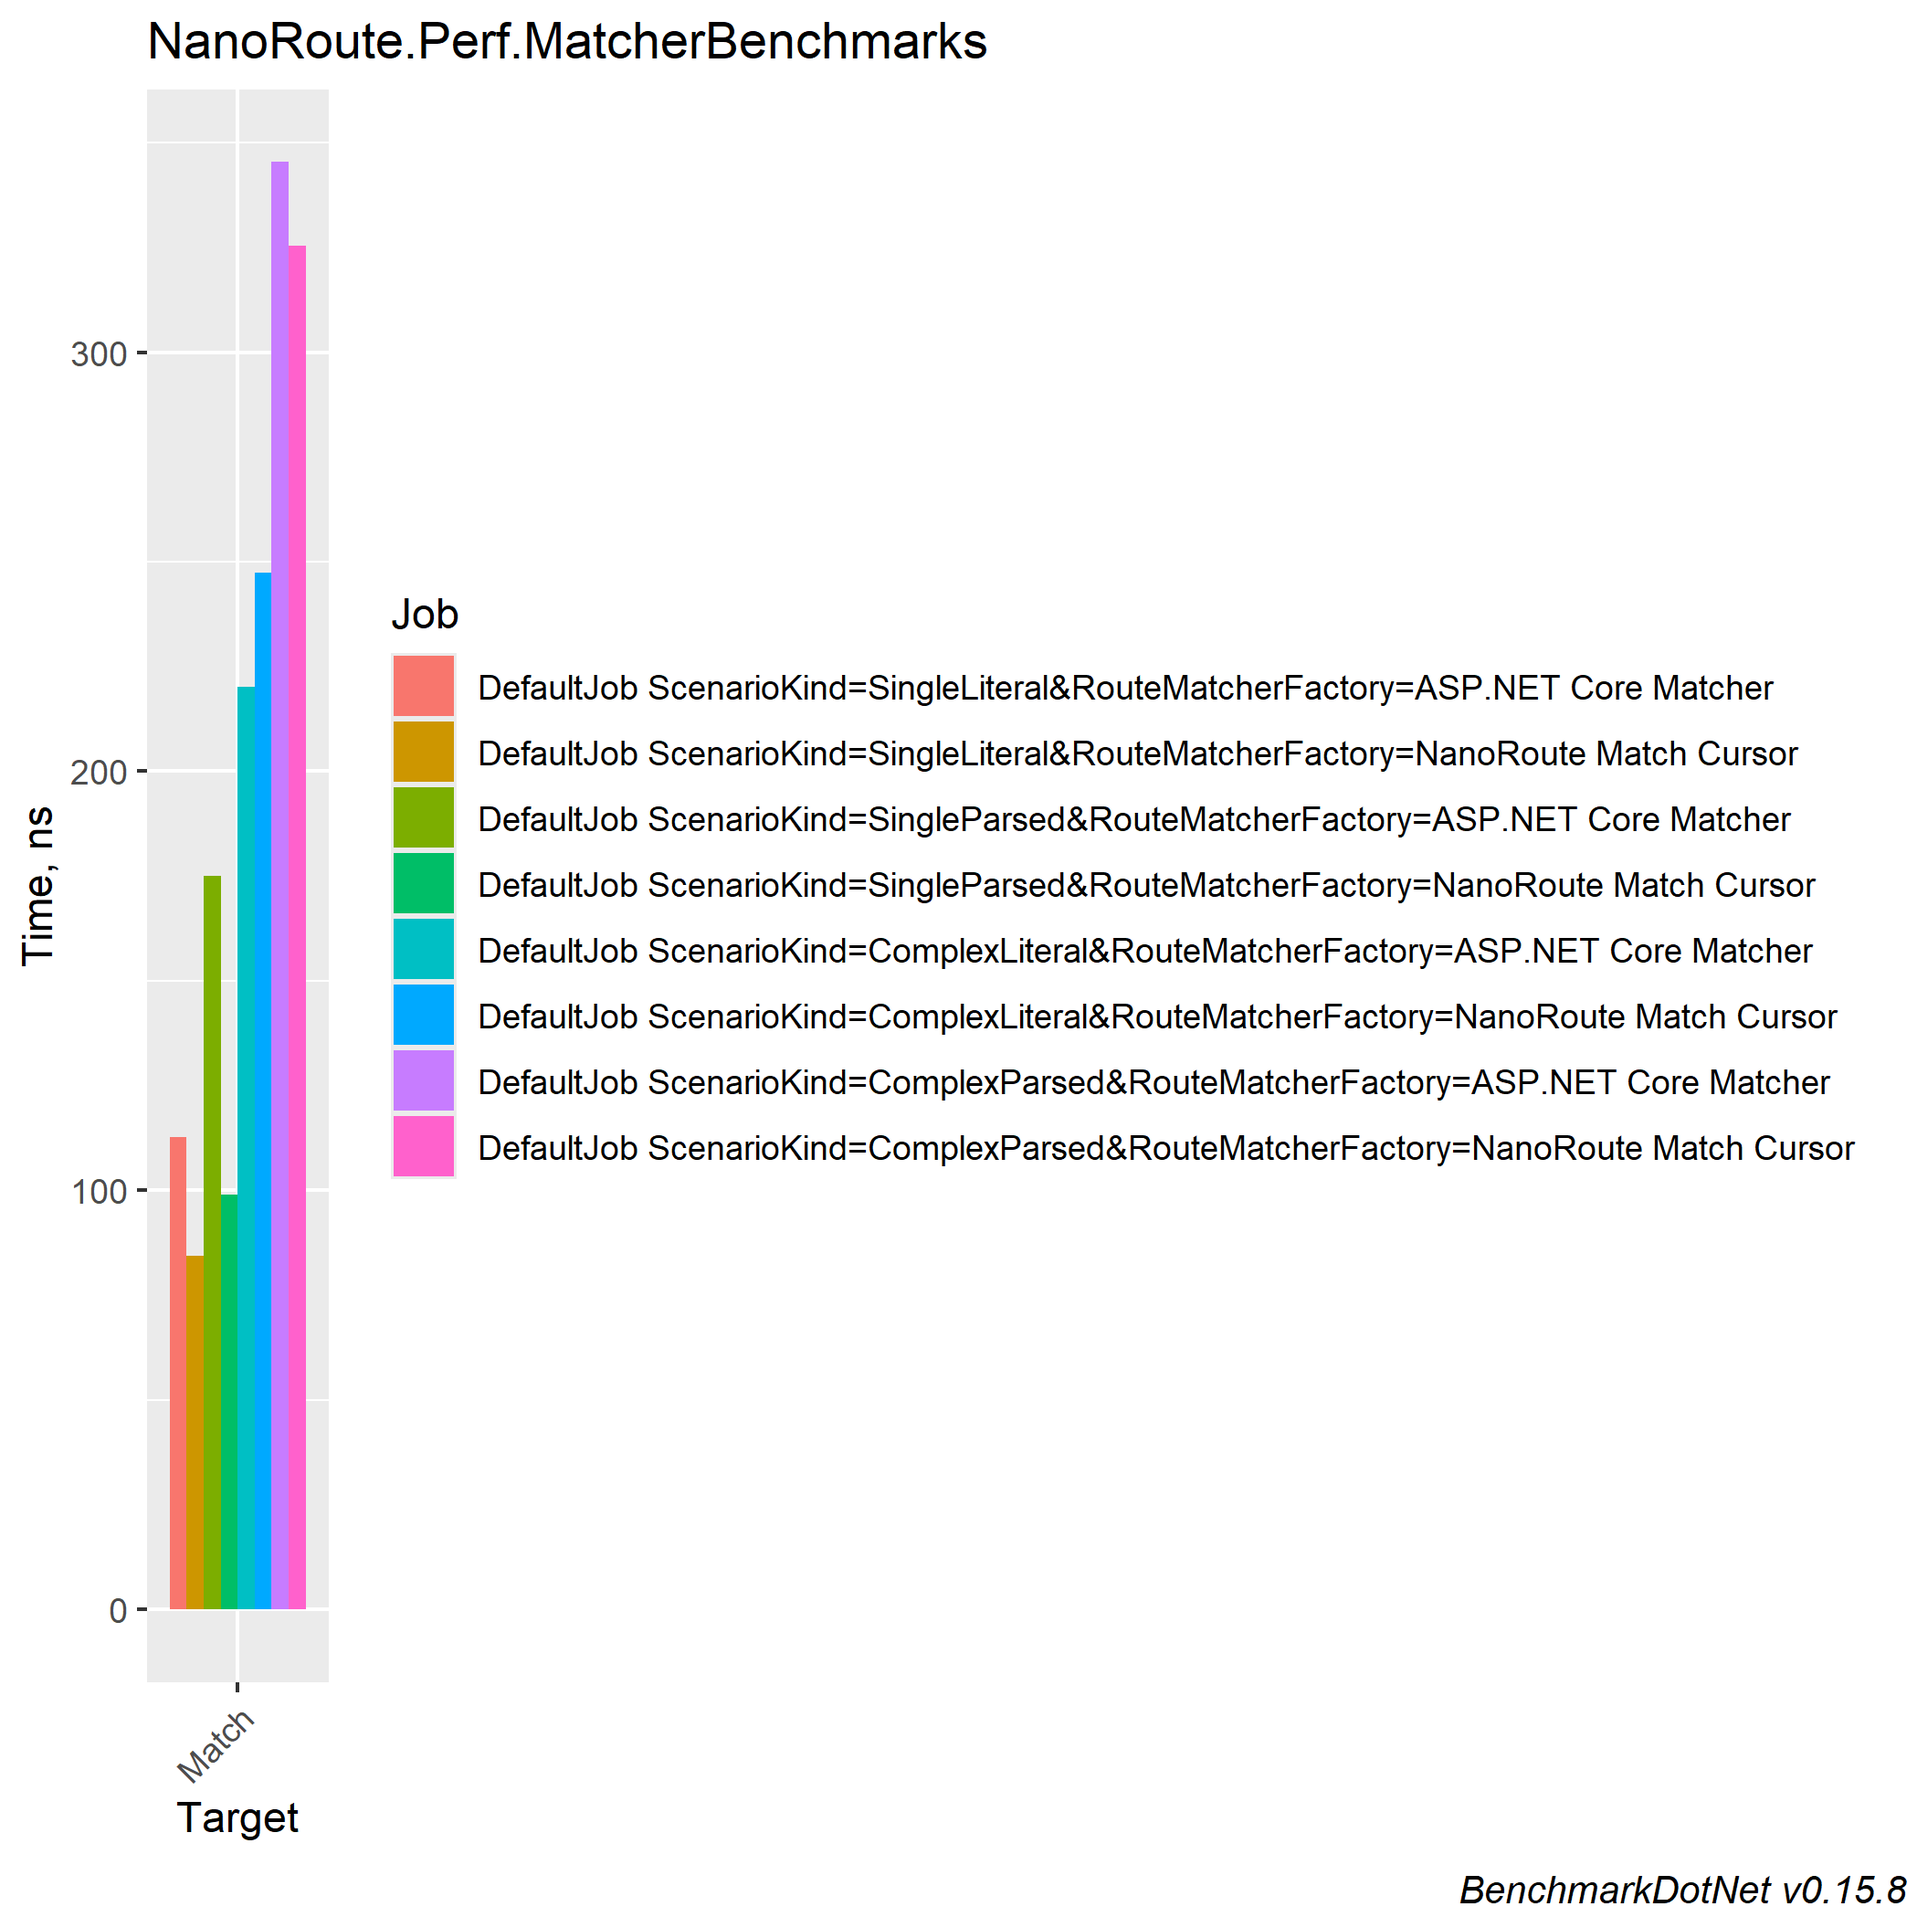
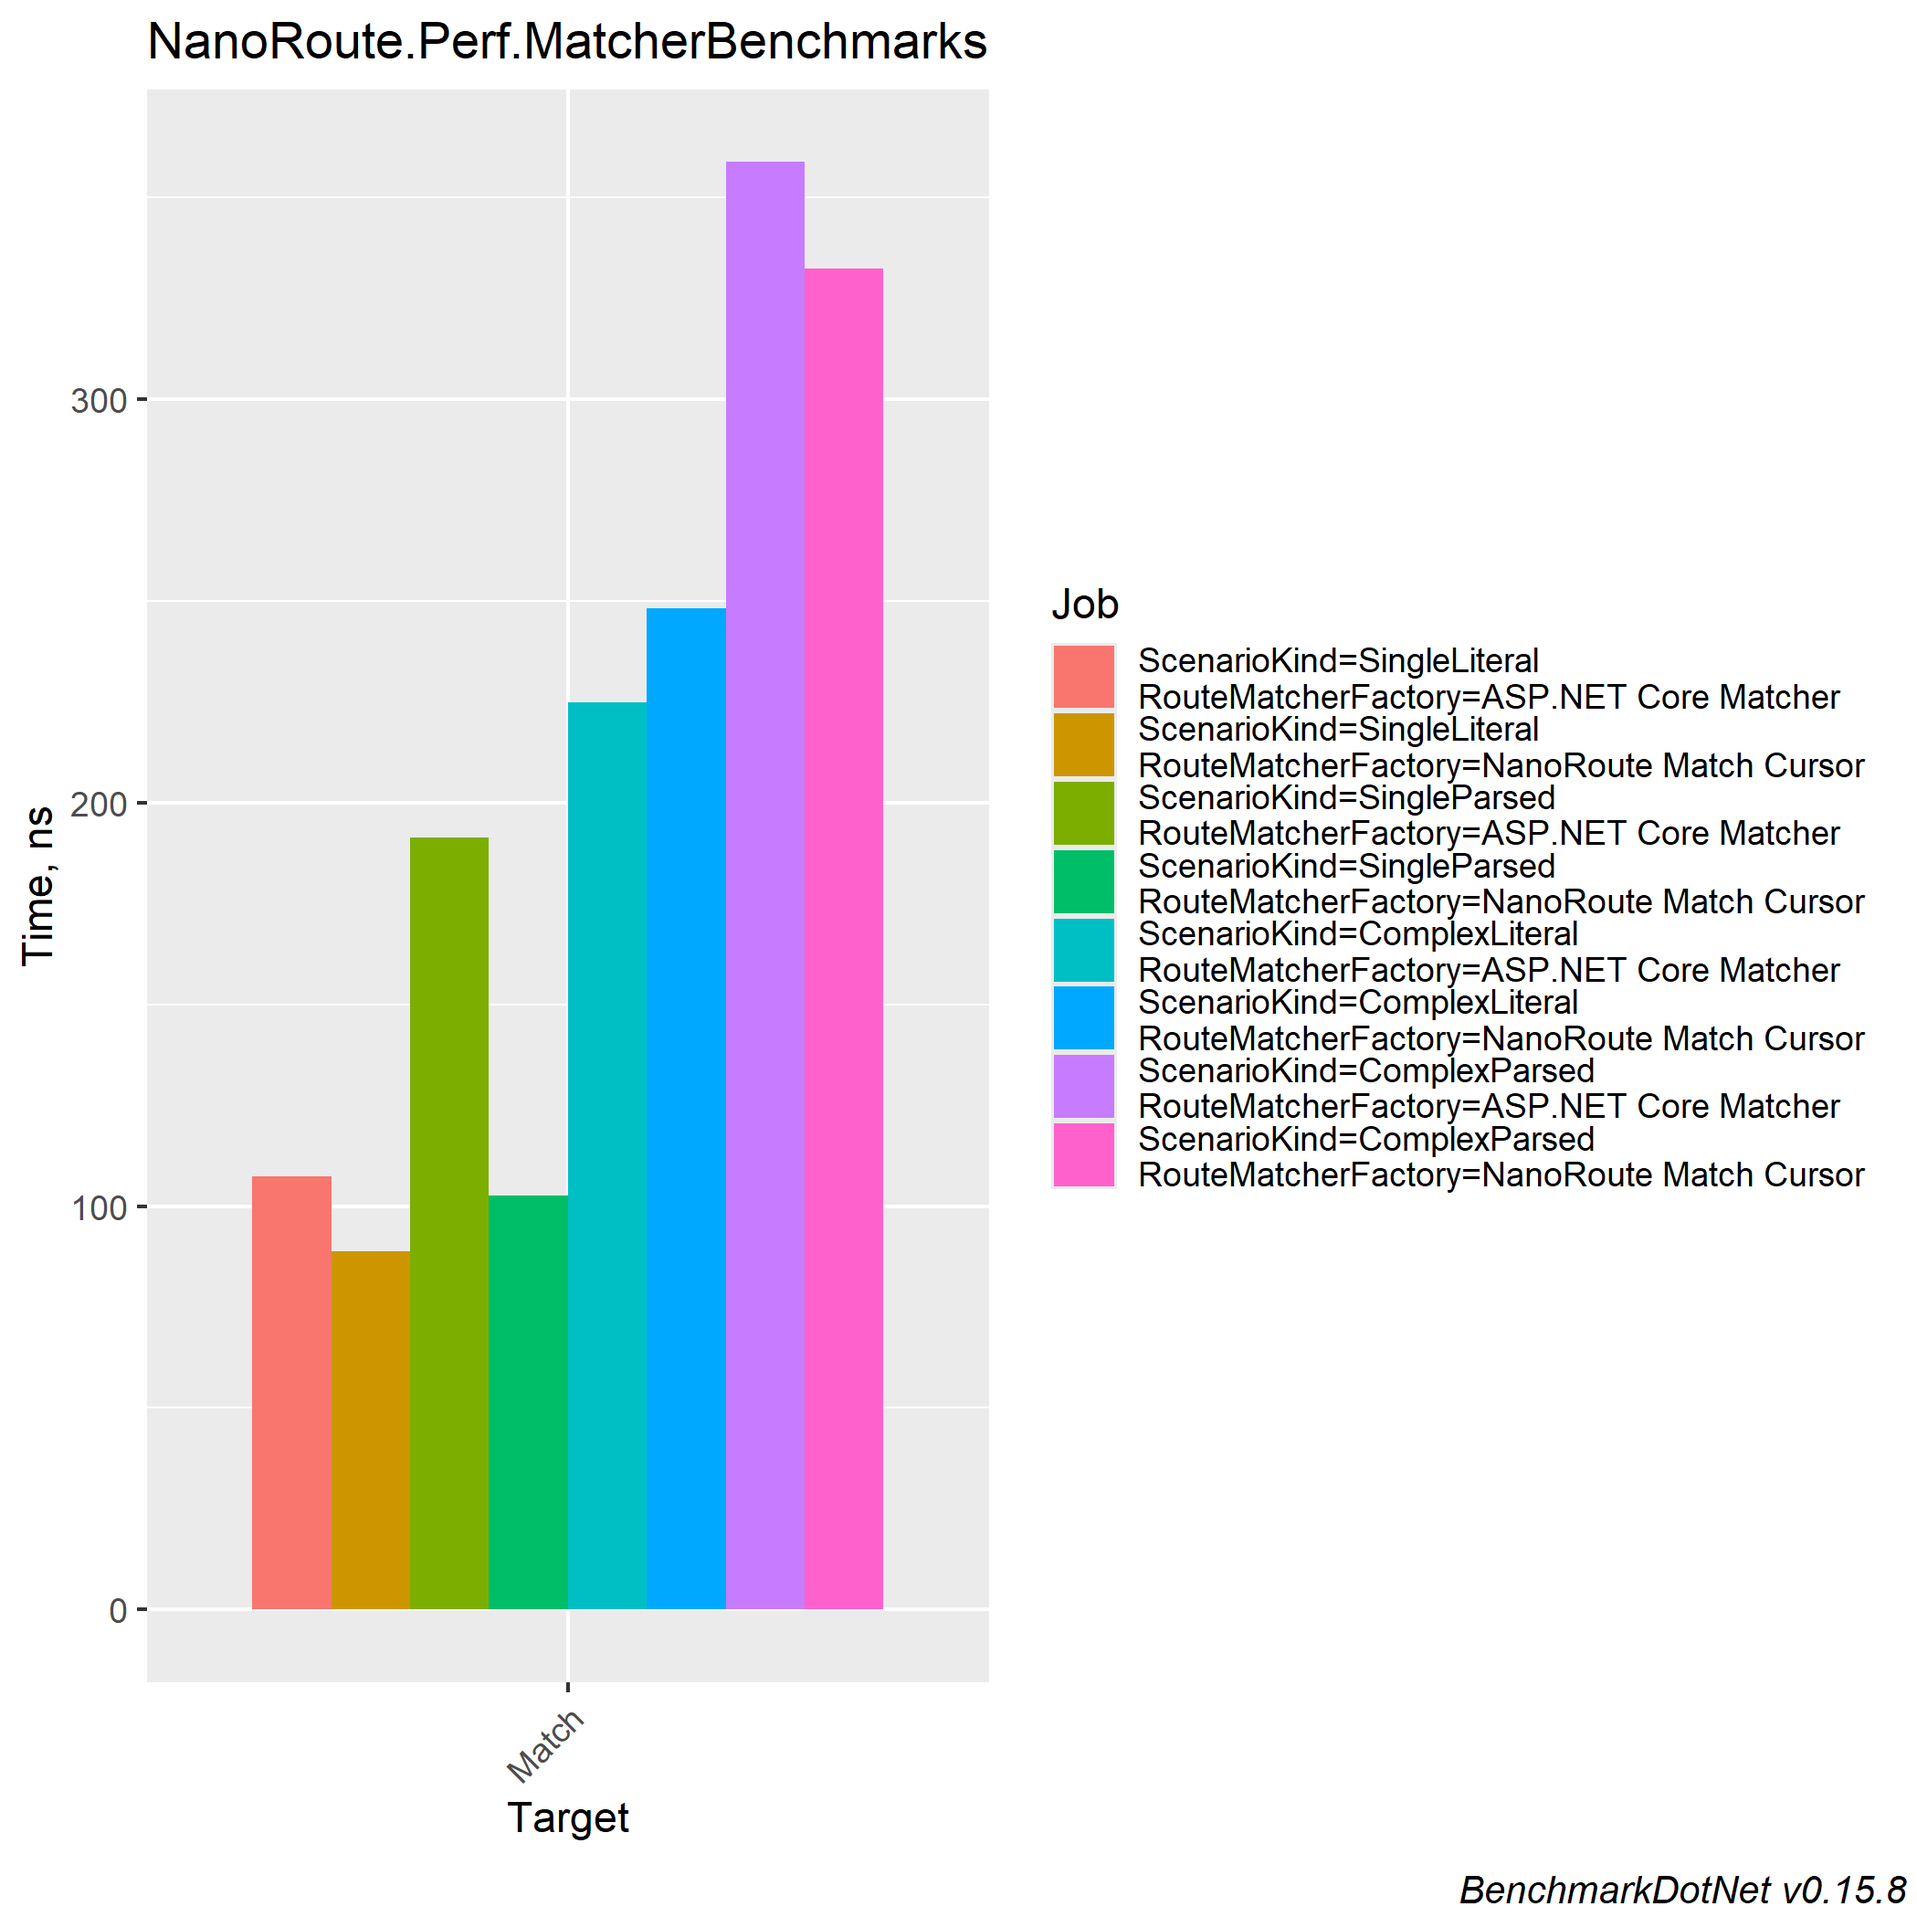
[bot] update artifacts

diff --git a/Benchmarks/NanoRoute.Perf.MatcherBenchmarks-report-github.md b/Benchmarks/NanoRoute.Perf.MatcherBenchmarks-report-github.md
@@ -1,20 +1,20 @@
 ```
 
 BenchmarkDotNet v0.15.8, Windows 11 (10.0.26100.32860/24H2/2024Update/HudsonValley) (Hyper-V)
-AMD EPYC 7763 2.44GHz, 1 CPU, 4 logical and 2 physical cores
+Intel Xeon Platinum 8370C CPU 2.80GHz (Max: 2.79GHz), 1 CPU, 4 logical and 2 physical cores
 .NET SDK 10.0.300
-  [Host]     : .NET 10.0.8 (10.0.8, 10.0.826.23019), X64 RyuJIT x86-64-v3
-  DefaultJob : .NET 10.0.8 (10.0.8, 10.0.826.23019), X64 RyuJIT x86-64-v3
+  [Host]     : .NET 10.0.8 (10.0.8, 10.0.826.23019), X64 RyuJIT x86-64-v4
+  DefaultJob : .NET 10.0.8 (10.0.8, 10.0.826.23019), X64 RyuJIT x86-64-v4
 
 
 ```
 | Method | ScenarioKind   | RouteMatcherFactory    | Mean      | Error    | StdDev   | Gen0   | Allocated |
 |------- |--------------- |----------------------- |----------:|---------:|---------:|-------:|----------:|
-| **Match**  | **SingleLiteral**  | **ASP.NET Core Matcher**   | **112.78 ns** | **0.144 ns** | **0.120 ns** |      **-** |         **-** |
-| **Match**  | **SingleLiteral**  | **NanoRoute Match Cursor** |  **84.48 ns** | **1.505 ns** | **1.408 ns** | **0.0081** |     **136 B** |
-| **Match**  | **SingleParsed**   | **ASP.NET Core Matcher**   | **175.10 ns** | **0.774 ns** | **0.686 ns** | **0.0067** |     **112 B** |
-| **Match**  | **SingleParsed**   | **NanoRoute Match Cursor** |  **99.07 ns** | **1.252 ns** | **1.171 ns** | **0.0095** |     **160 B** |
-| **Match**  | **ComplexLiteral** | **ASP.NET Core Matcher**   | **220.08 ns** | **0.262 ns** | **0.232 ns** |      **-** |         **-** |
-| **Match**  | **ComplexLiteral** | **NanoRoute Match Cursor** | **247.48 ns** | **1.213 ns** | **1.135 ns** | **0.0081** |     **136 B** |
-| **Match**  | **ComplexParsed**  | **ASP.NET Core Matcher**   | **345.37 ns** | **2.003 ns** | **1.874 ns** | **0.0114** |     **192 B** |
-| **Match**  | **ComplexParsed**  | **NanoRoute Match Cursor** | **325.39 ns** | **1.366 ns** | **1.278 ns** | **0.0124** |     **208 B** |
+| **Match**  | **SingleLiteral**  | **ASP.NET Core Matcher**   | **107.43 ns** | **2.065 ns** | **2.611 ns** |      **-** |         **-** |
+| **Match**  | **SingleLiteral**  | **NanoRoute Match Cursor** |  **88.82 ns** | **1.415 ns** | **1.181 ns** | **0.0054** |     **136 B** |
+| **Match**  | **SingleParsed**   | **ASP.NET Core Matcher**   | **191.39 ns** | **2.991 ns** | **4.193 ns** | **0.0043** |     **112 B** |
+| **Match**  | **SingleParsed**   | **NanoRoute Match Cursor** | **102.72 ns** | **0.596 ns** | **0.498 ns** | **0.0063** |     **160 B** |
+| **Match**  | **ComplexLiteral** | **ASP.NET Core Matcher**   | **224.91 ns** | **1.312 ns** | **1.163 ns** |      **-** |         **-** |
+| **Match**  | **ComplexLiteral** | **NanoRoute Match Cursor** | **248.27 ns** | **3.208 ns** | **3.001 ns** | **0.0052** |     **136 B** |
+| **Match**  | **ComplexParsed**  | **ASP.NET Core Matcher**   | **358.87 ns** | **1.053 ns** | **0.934 ns** | **0.0076** |     **192 B** |
+| **Match**  | **ComplexParsed**  | **NanoRoute Match Cursor** | **332.46 ns** | **6.417 ns** | **7.880 ns** | **0.0081** |     **208 B** |
